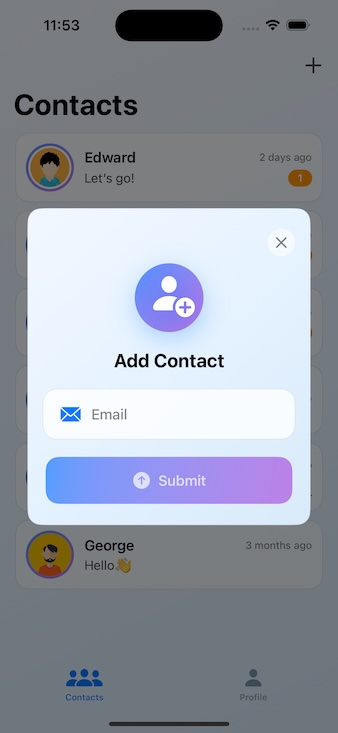
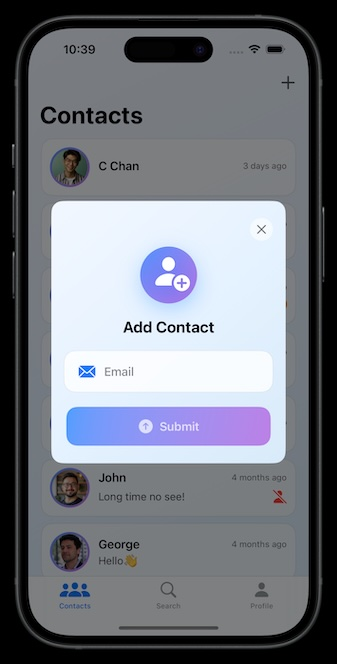
Update README

diff --git a/README.md b/README.md
@@ -2,9 +2,12 @@
 ### I'm curious about how the webSocket works🤔, so I started this project, 1 on 1 chatting💬 app as a practice. It has to run with the server side [here](https://github.com/tzc1234/ChattingServer). 
 
 ### Screenshots
-<img src="https://github.com/tzc1234/ChattingiOS/blob/main/screenshots/signin.jpeg" alt="signin" width="256" height="555"/> <img src="https://github.com/tzc1234/ChattingiOS/blob/main/screenshots/add_contact.jpeg" alt="add_contact" width="256" height="555"/> <img src="https://github.com/tzc1234/ChattingiOS/blob/main/screenshots/contacts.jpeg" alt="contacts" width="256" height="555"/> <img src="https://github.com/tzc1234/ChattingiOS/blob/main/screenshots/messages.jpeg" alt="messages" width="256" height="555"/> <img src="https://github.com/tzc1234/ChattingiOS/blob/main/screenshots/message_notification.jpeg" alt="message_notification" width="256" height="555"/> <img src="https://github.com/tzc1234/ChattingiOS/blob/main/screenshots/profile.jpeg" alt="profile" width="256" height="555"/>
+<img src="https://github.com/tzc1234/ChattingiOS/blob/main/screenshots/add_contact.jpeg" alt="add_contact" width="256" height="555"/> <img src="https://github.com/tzc1234/ChattingiOS/blob/main/screenshots/contacts.jpeg" alt="contacts" width="256" height="555"/> <img src="https://github.com/tzc1234/ChattingiOS/blob/main/screenshots/search_contacts.jpeg" alt="search_contacts" width="256" height="555"/> <img src="https://github.com/tzc1234/ChattingiOS/blob/main/screenshots/messages.jpeg" alt="messages" width="256" height="555"/> <img src="https://github.com/tzc1234/ChattingiOS/blob/main/screenshots/message_notification.jpeg" alt="message_notification" width="256" height="555"/> <img src="https://github.com/tzc1234/ChattingiOS/blob/main/screenshots/profile.jpeg" alt="profile" width="256" height="555"/>
 
 ### Retrospective
+#### Use UITableViewRepresentable for messages page
+Due to the complexity of the messages page, I would like to have a more fine-grained control (for example the scroll.) of the list of message bubbles. The SwiftUI list does not provide an API for controlling the content offset y (at least not in iOS 17). Therefore, I switch to UITableView, controlling the offset y for accurate keyboard height adjustment.
+
 #### Re-render message bubble after edit message
 After the message is edited, if bubbles increase lines of text (to become "taller"), the message bubble view will not expand vertically correctly. I think it's the list row height calculation issue of SwiftUI `List`. It's time to use the good old trick, change the id of the view (use `.id()` modifier), and force SwiftUI to recreate it.
 
@@ -56,6 +59,7 @@ The compiler will complain if something is not thread-safe, non-sendable. In ord
 5. AsyncStream
 6. APNs
 7. Core Data
+8. Vapor for back-end
 
 ### Goals to achieve
 1. Learn webSocket
@@ -73,3 +77,4 @@ The compiler will complain if something is not thread-safe, non-sendable. In ord
 * Version 1.4 new UI design
 * Version 1.5 unify web socket binary types
 * Version 1.6 edit/delete message
+* Version 1.7 search contacts and UI improvement
